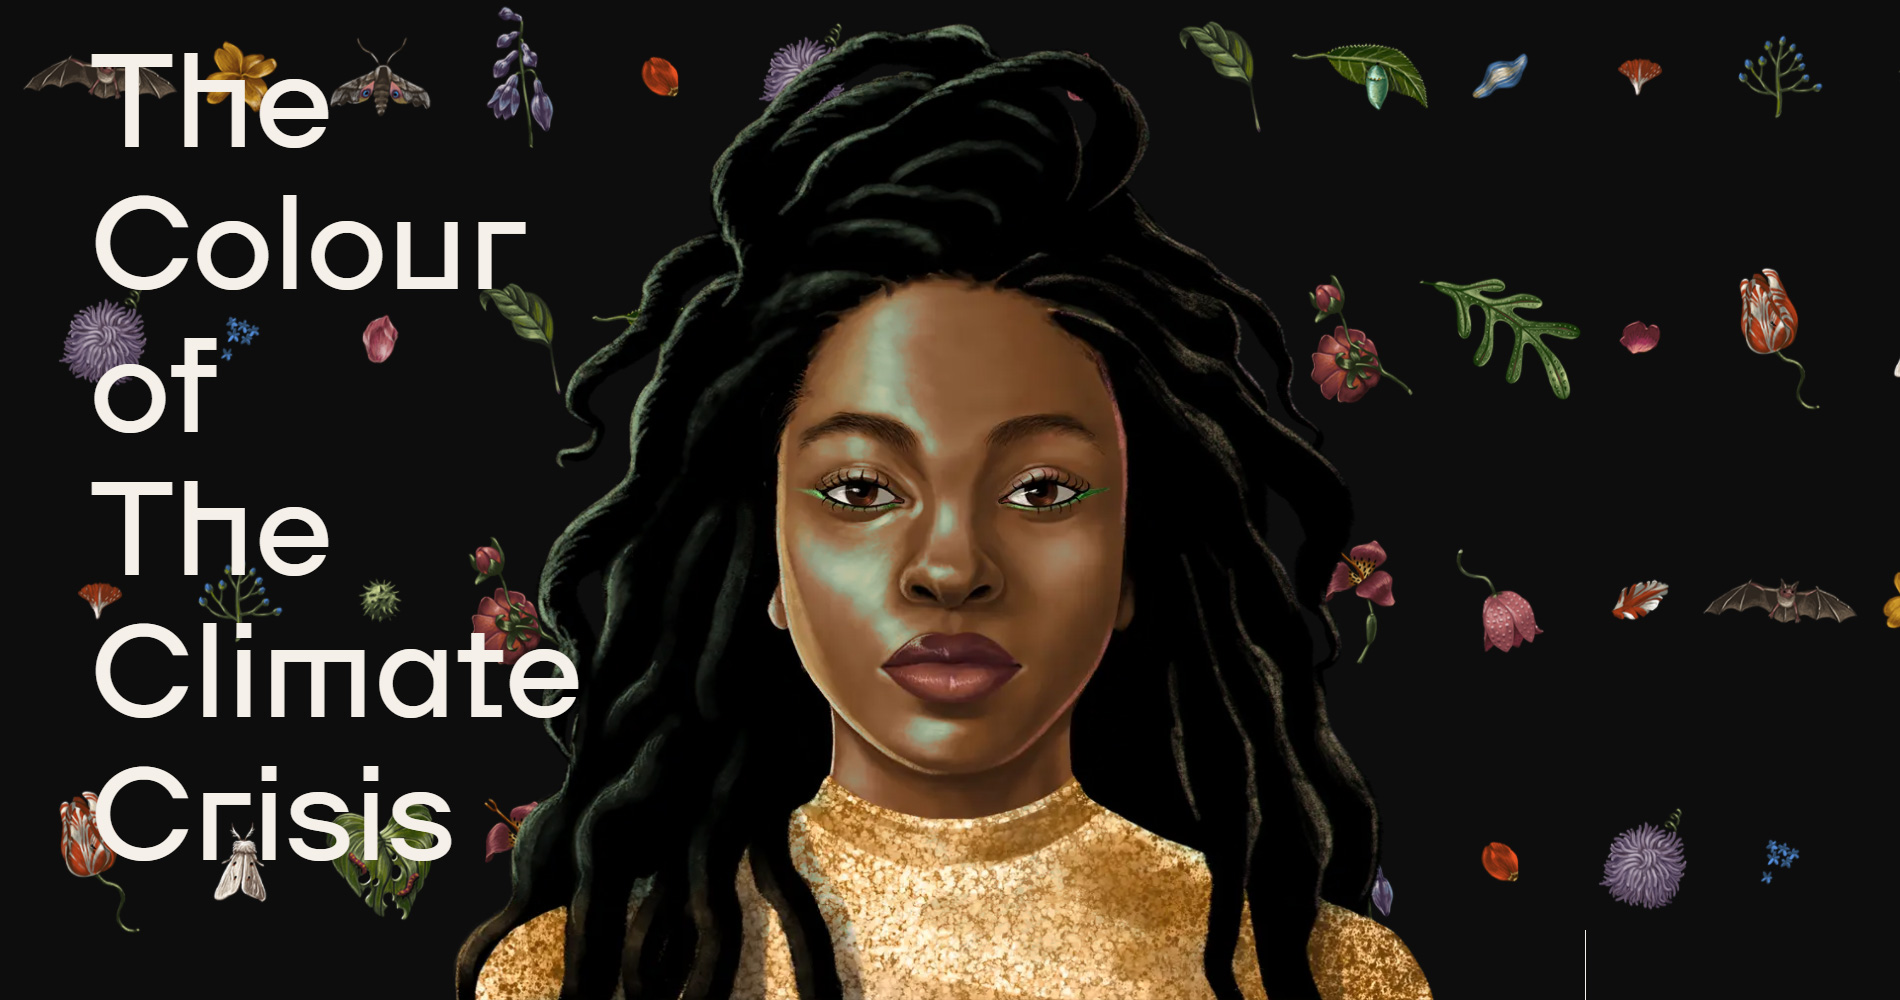
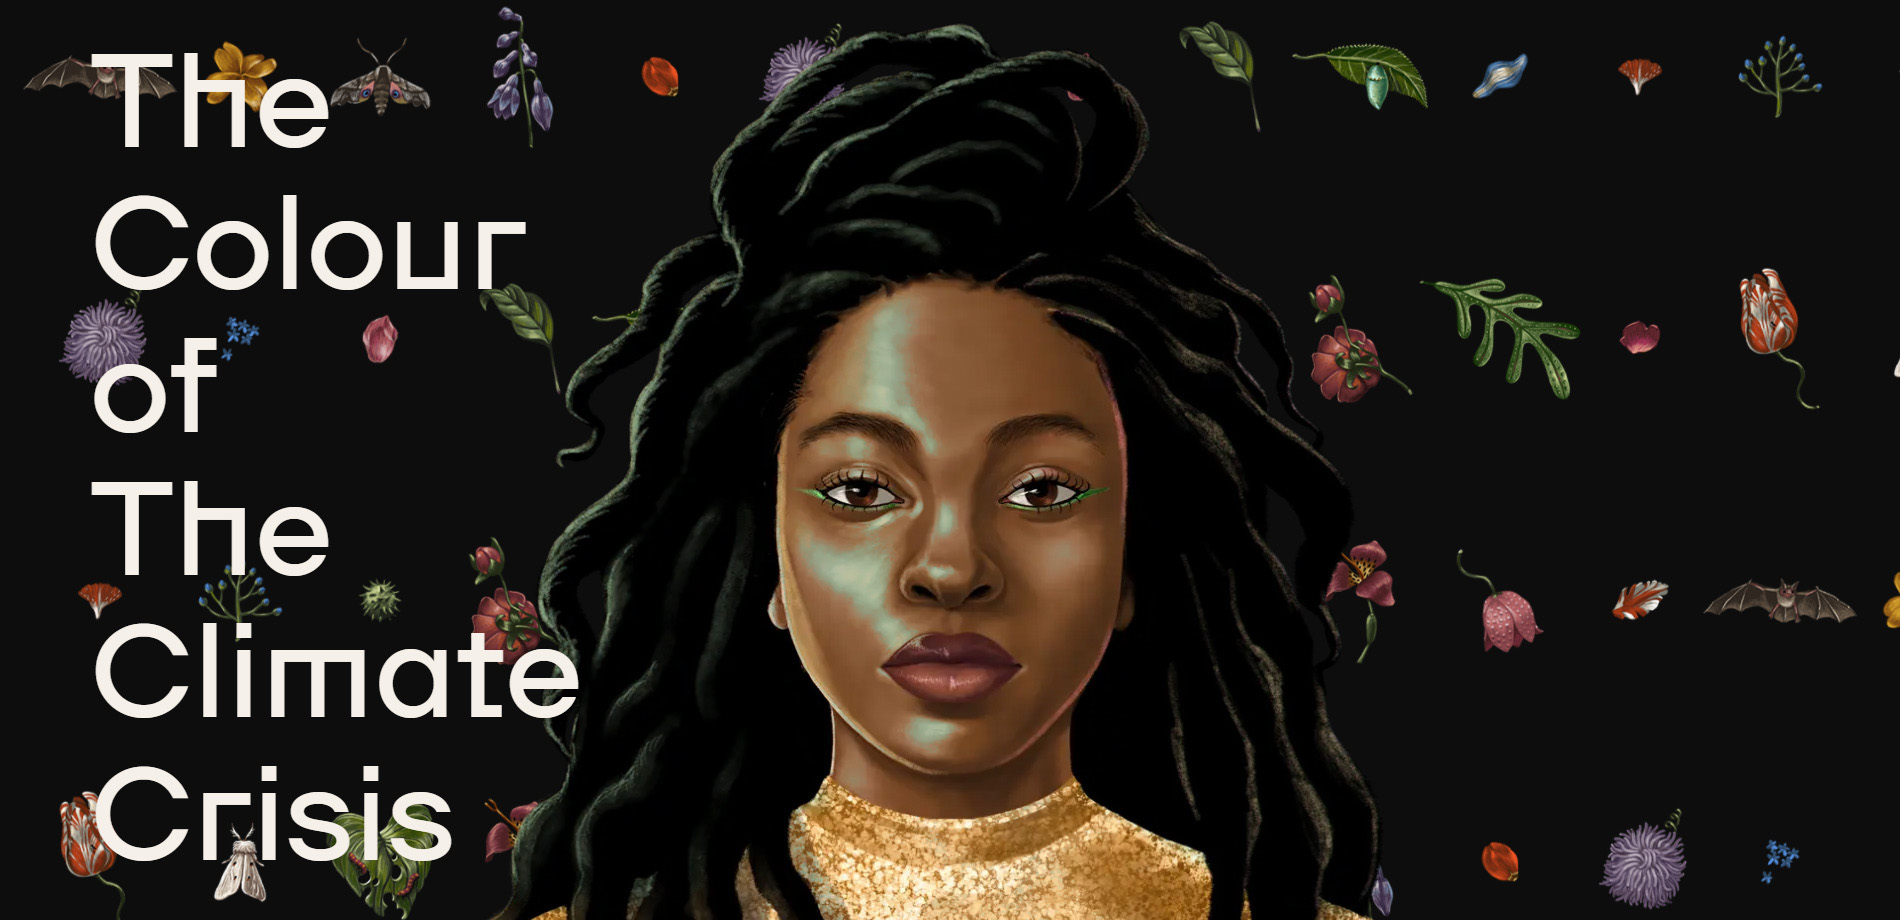
Update hero to showcase work

diff --git a/src/pages/index.tsx b/src/pages/index.tsx
@@ -3,7 +3,6 @@ import { Link } from 'gatsby';
 
 import BarLink from '../components/bar-link';
 import ClientList from '../components/client-list';
-import HeroVideo from '../components/hero-video';
 import Layout from '../components/layout';
 import MainProjectItem from '../components/main-project-item';
 import ProjectPromoList from '../components/project-promo-list';
@@ -41,7 +40,7 @@ const IndexPage = () => (
       title="GOOD PRAXIS • A digital studio"
       metaTitle="GOOD PRAXIS • A digital studio"
     />
-    <HeroVideo />
+    <MainProjectItem />
     <h2 className="hero-title">
       We create websites, apps and digital experiences.
     </h2>
@@ -75,7 +74,6 @@ const IndexPage = () => (
       </div>
     </section>
     <section className="project-promos">
-      <MainProjectItem />
       <ProjectPromoList />
     </section>
     <section className="bar-links">

diff --git a/src/components/hero-image-text/hero-image-text.scss b/src/components/hero-image-text/hero-image-text.scss
@@ -6,33 +6,34 @@
 
 .hero-image-with-text {
   @media (min-width: $breakpoint-m) {
+    column-gap: 31px;
     display: grid;
     grid-template-columns: 1fr 1fr;
-    column-gap: 31px;
   }
 }
 
 .hero-image-with-text-image {
-  position: relative;
   padding-bottom: 56.25%;
+  position: relative;
+
   img {
-    top: 0;
     left: 0;
-    width: 100%;
     position: absolute;
+    top: 0;
+    width: 100%;
   }
 }
 
 .hero-image-with-text-copy {
+  align-items: center;
+  display: flex;
   font-size: 35px;
   font-weight: 400;
-  display: flex;
-  align-items: center;
 
   a {
     background-color: $yellow;
-    padding: 0 0.1em;
+    color: $inherit;
+    padding: 0 .1em;
     text-decoration: none;
-    color: inherit;
   }
 }

diff --git a/src/pages/main.scss b/src/pages/main.scss
@@ -156,16 +156,28 @@ hr {
 }
 
 .hero-title {
+  border-top: 1px solid rgba($black, .25);
   font-size: 30px;
   font-weight: 400;
   line-height: 1em;
+  margin-top: 1em;
   padding: 26px 15px 35px;
   position: relative;
 
   @media (min-width: $breakpoint-m) {
+    border-top: 0;
     font-size: 35px;
     line-height: 41px;
-    padding: 43px 15px 72px calc(50% + 15px);
+    margin-top: -110px;
+    padding: 0 15px 72px calc(50% + 15px);
+  }
+
+  @media (min-width: $breakpoint-l) {
+    margin-top: -94px;
+  }
+
+  @media (min-width: $breakpoint-xl) {
+    margin-top: -66px;
   }
 
   &::after {

diff --git a/src/templates/projectTemplate.tsx b/src/templates/projectTemplate.tsx
@@ -218,7 +218,7 @@ export const pageQuery = graphql`
               width: 1538
               quality: 95
               placeholder: BLURRED
-              aspectRatio: 1.7777
+              aspectRatio: 2
             )
           }
         }

diff --git a/src/components/main-project-item/index.tsx b/src/components/main-project-item/index.tsx
@@ -35,7 +35,7 @@ const MainProjectItem = () => (
               width: 1570
               quality: 95
               placeholder: BLURRED
-              aspectRatio: 1.7777
+              aspectRatio: 2
             )
           }
         }
